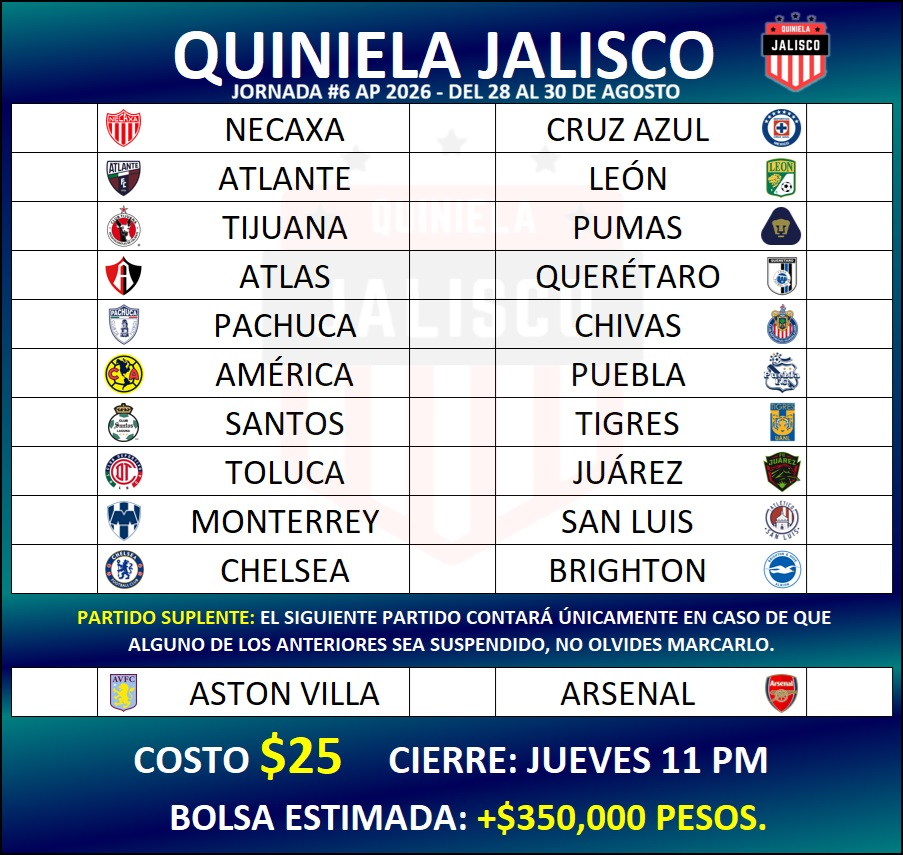
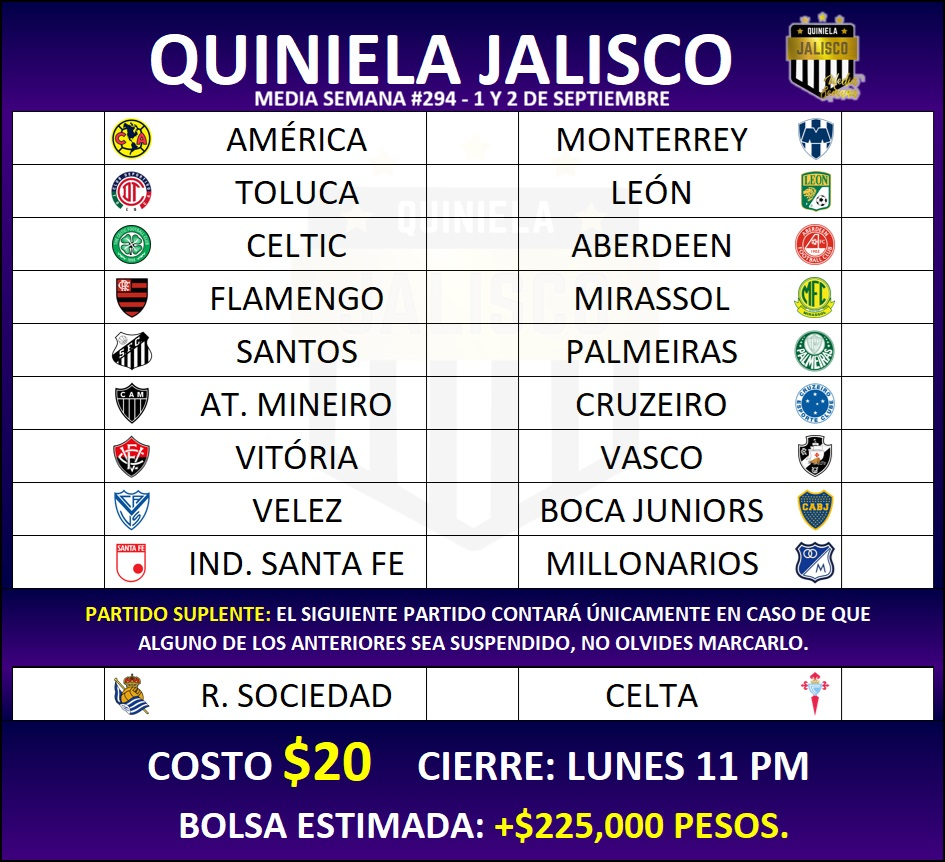
Media Semana #294

diff --git a/MediaSemana/stylesmSusp.css b/MediaSemana/stylesmSusp.css
@@ -94,8 +94,8 @@ body{
     margin-top: 9%;
     border: solid 1px black;
     border-radius: 0 0 14px 14px;
-    background: -webkit-linear-gradient(0.49turn, rgb(0,66,25) -7%, rgb(0 6 82) 80%);
-    background: linear-gradient(0.49turn, rgb(0,66,25) -7%, rgb(0 6 82) 80%);
+    background: -webkit-linear-gradient(0.49turn, rgb(38,0,104) -7%, rgb(0 6 82) 80%);
+    background: linear-gradient(0.49turn, rgb(38,0,104) -7%, rgb(0 6 82) 80%);
 }
 
 .text-lg{
@@ -298,7 +298,7 @@ h6{
 }
 
 #cantidad:before{
-    content:' +$300,000 pesos';
+    content:' +$225,000 pesos';
     color: yellow;
     white-space:pre;
 }

diff --git a/contact.html b/contact.html
@@ -688,7 +688,8 @@
           window.location.href = whatsappLink;
         };
 
-        if (duration) {
+        var redirect = typeof disableRedirect !== 'undefined' && disableRedirect;
+        if (duration && !redirect) {
           setTimeout(function() {
             window.location.href = whatsappLink;
           }, duration);
